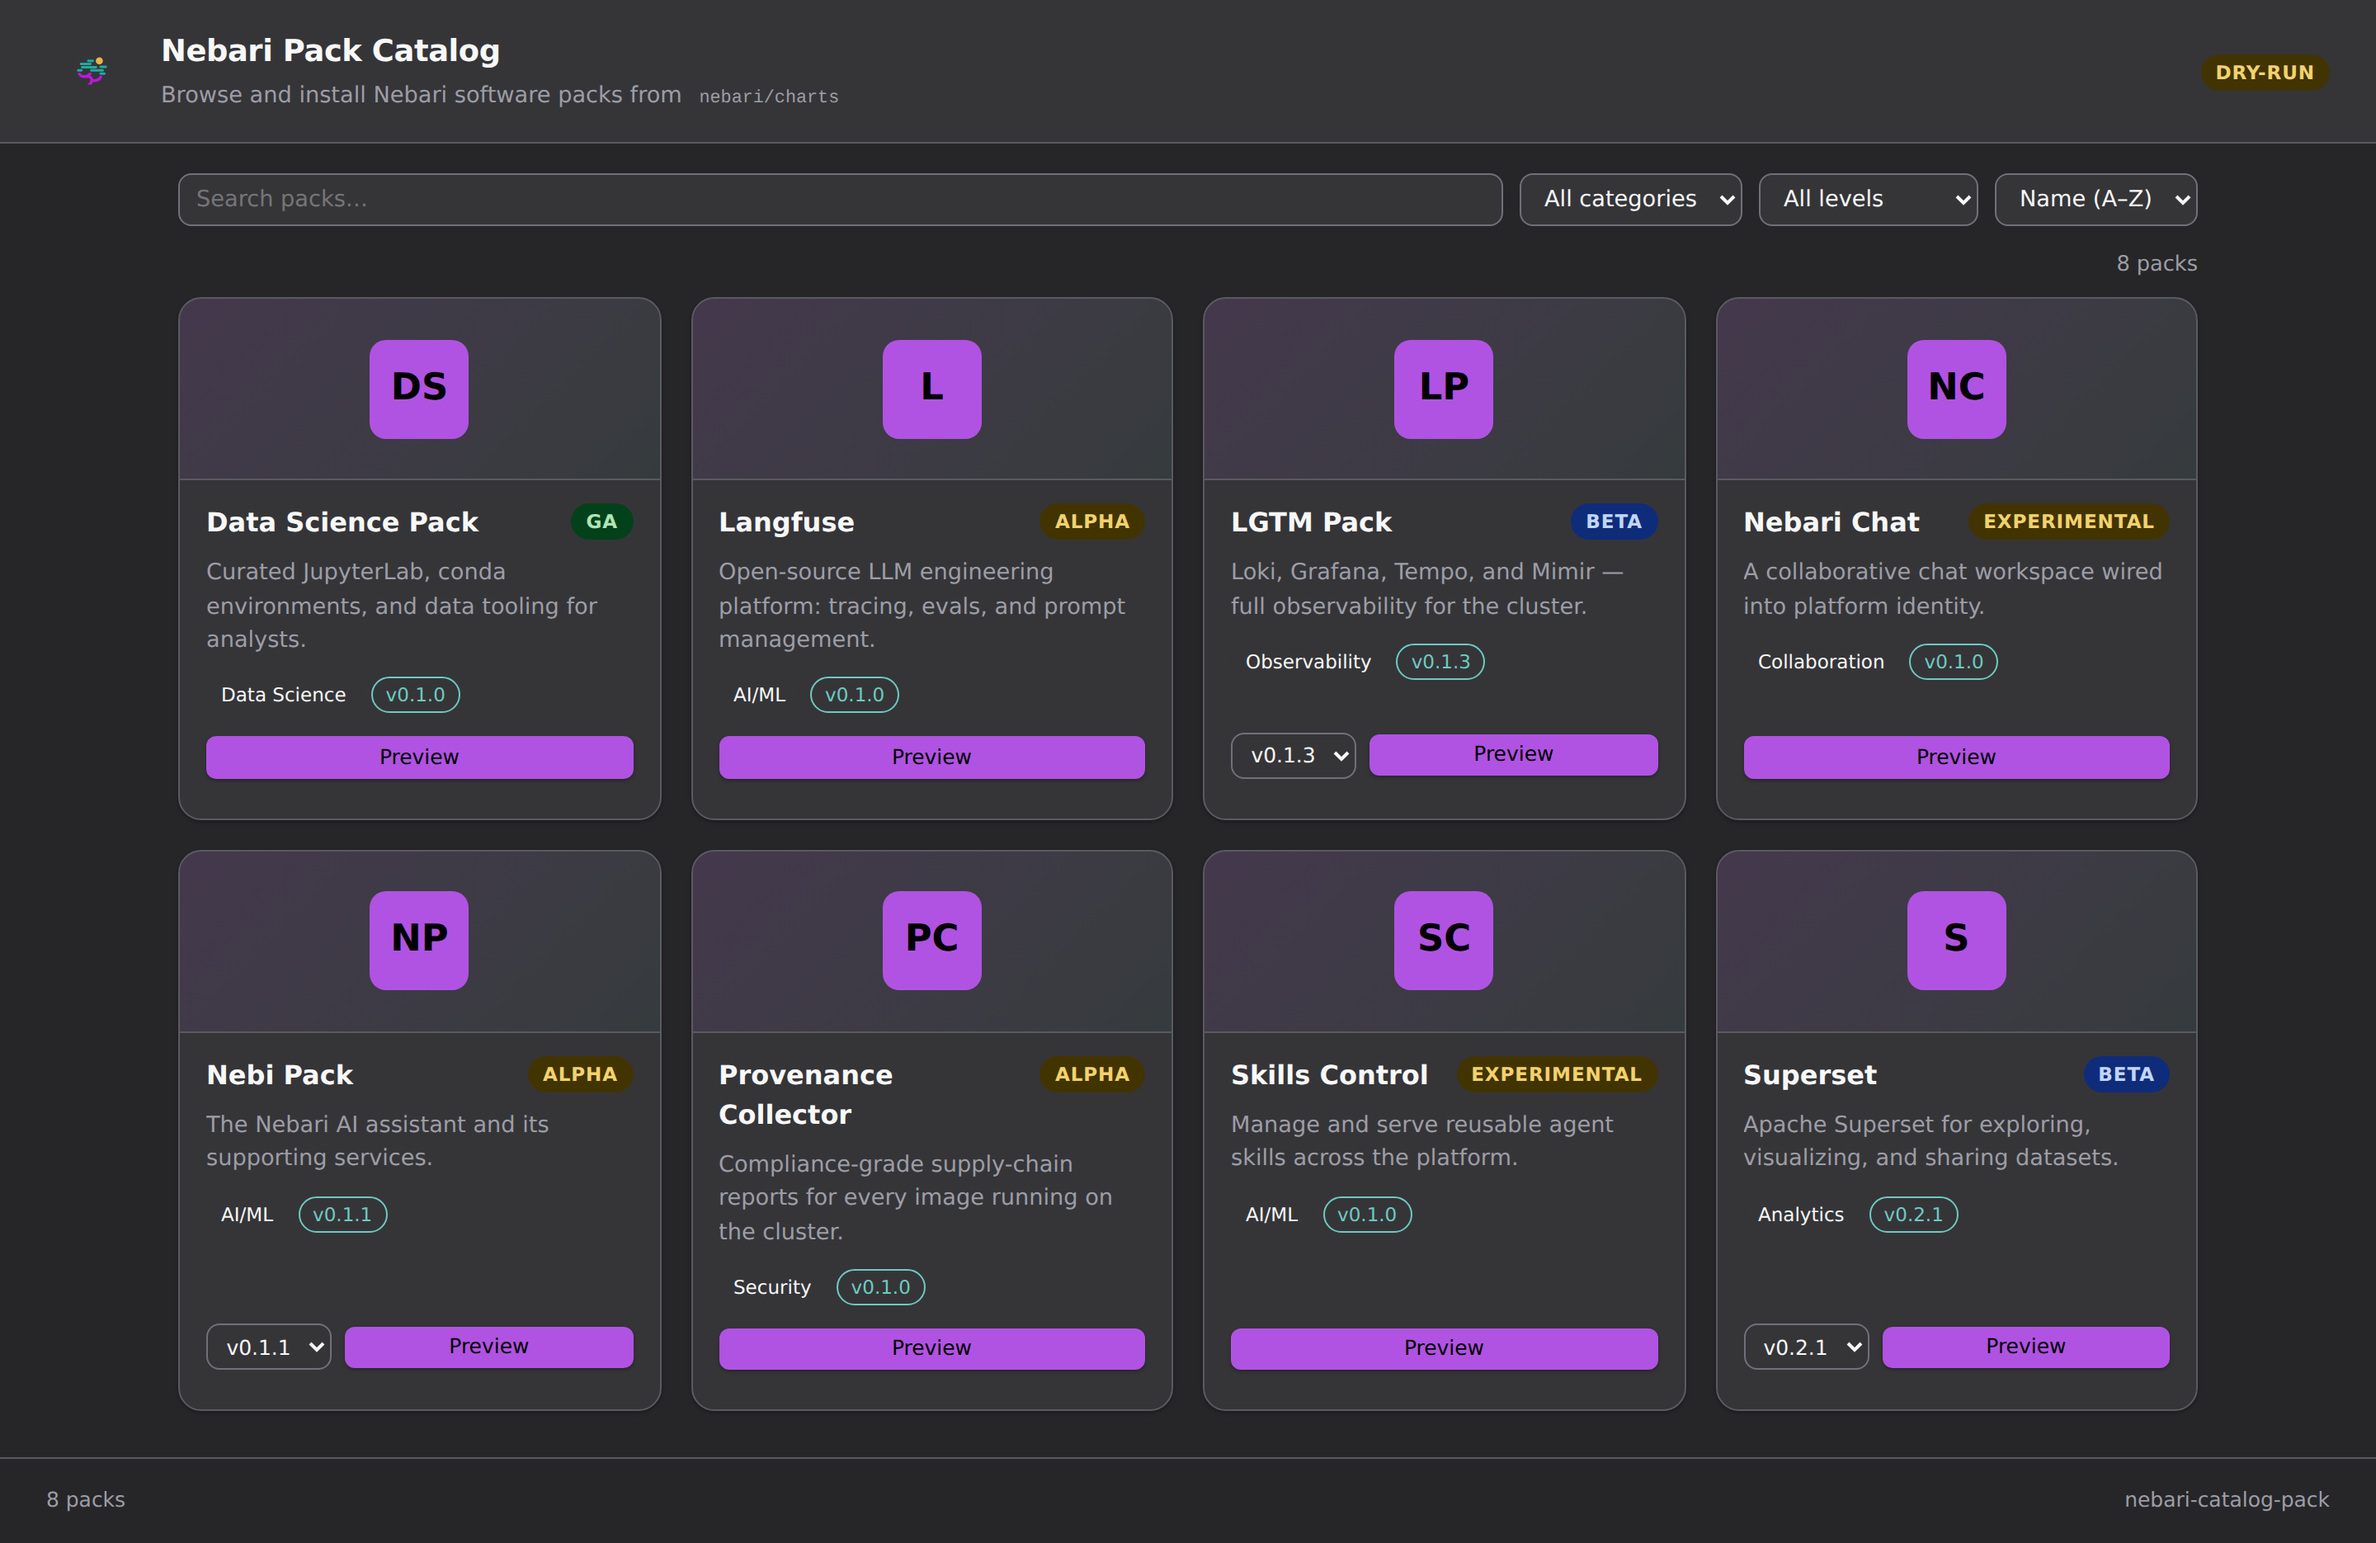
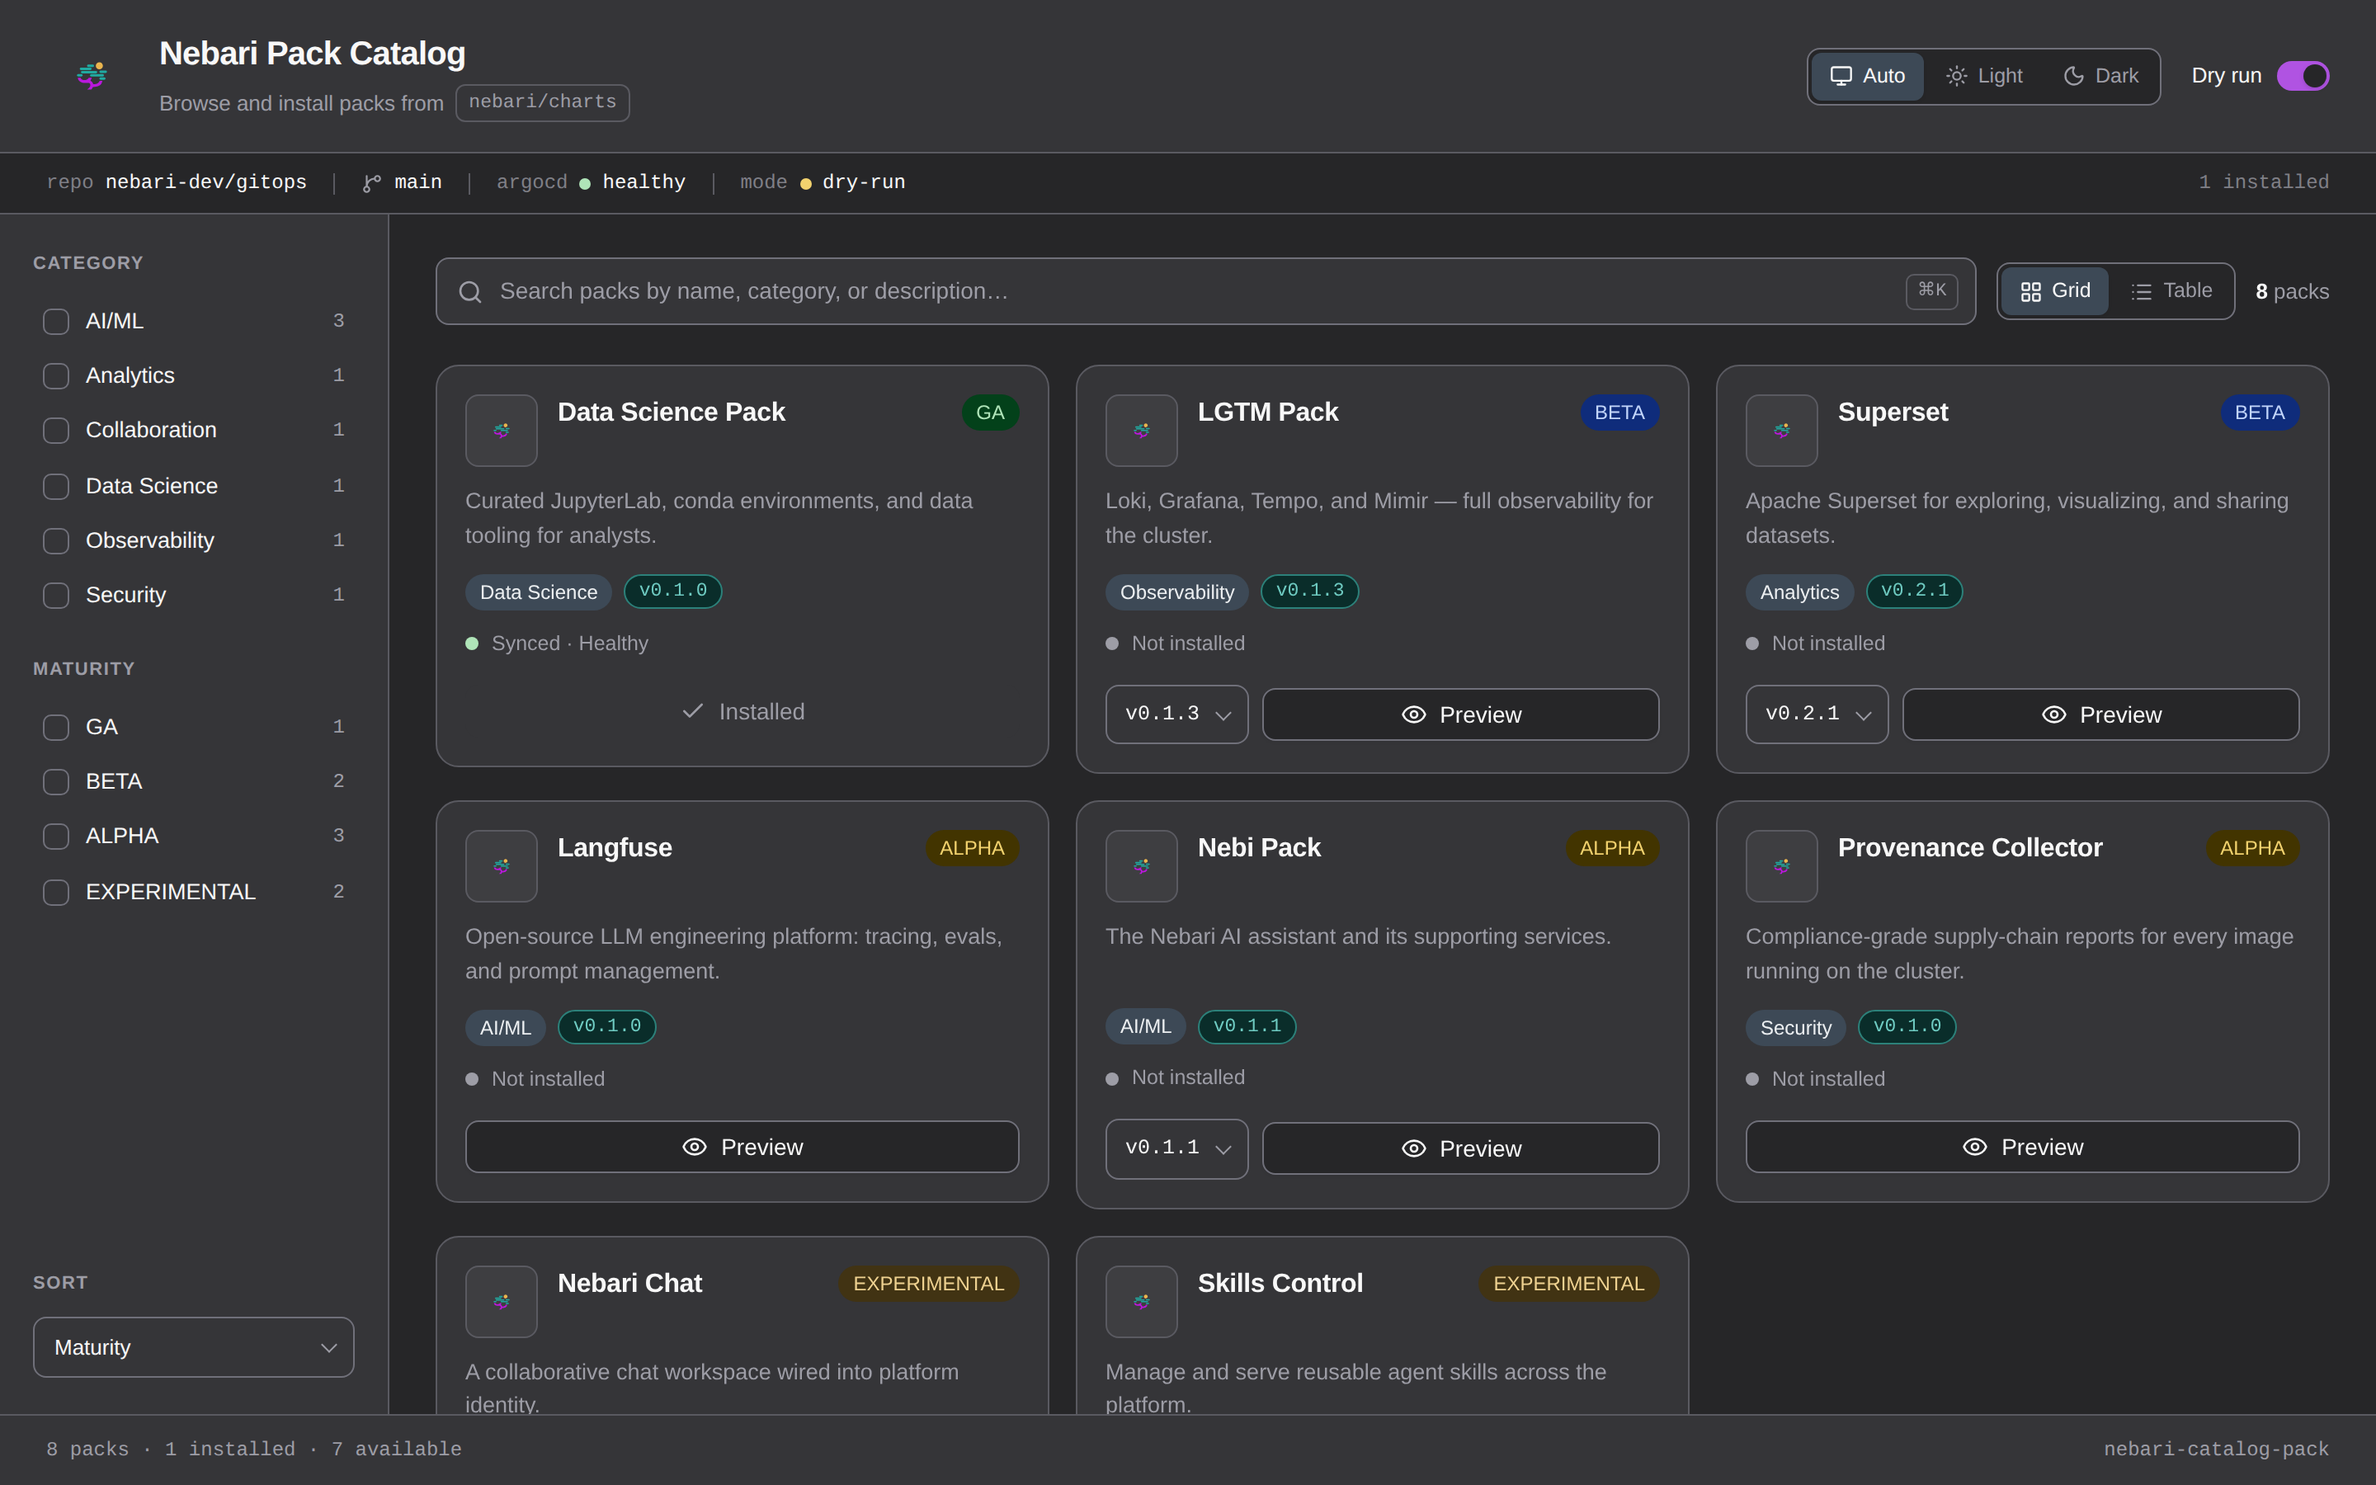
chore: build tooling, e2e harness, and docs for the SPA
- Dockerfile: add a Node build stage that produces web/dist, then embed it in
  the Go build; drop the templ generate step.
- CI (ci.yml): add a frontend job (npm ci + typecheck + build); the Go job
  builds against the committed dist placeholder. Remove templ generate/verify.
- dev/Makefile: web / web-typecheck / build (embeds SPA) targets; drop templ.
- Screenshot harness: regenerate against the SPA (screenshots.spec.js selectors
  updated); screenshots.yml builds the frontend before capture and watches
  web/**. Live integration spec triggers the install via the JSON API and
  reloads to capture cluster state; integration.yml builds the SPA before
  running the runner-side binary.
- go.mod: drop the now-unused templ dependency.
- README + docs/architecture: document the React/TS SPA + JSON API split.
- docs/screenshots: regenerated from the new UI.

diff --git a/test/e2e/live.spec.js b/test/e2e/live.spec.js
@@ -1,16 +1,12 @@
-// Captures the catalog UI against a LIVE deployment and drives a real install.
-// Run via: CATALOG_URL=... TEST_PACK=... npm run screenshots:live
+// Captures the catalog SPA against a LIVE deployment and triggers a real
+// install. Run via: CATALOG_URL=... TEST_PACK=... npm run screenshots:live
 //
 // Used by .github/workflows/integration.yml once the action-nebari-sandbox
-// platform is up and the catalog is running on the runner pointed at the
-// sandbox's real file:// GitOps repo + ArgoCD. The screenshots therefore show
-// the real registry gallery and a genuine install result (committed to git,
-// nudged into ArgoCD) — not the deterministic demo fixtures.
-//
-// The pack to install comes from TEST_PACK; if that card is not present in the
-// live listing we fall back to the first installable card. The chosen pack name
-// is written to installed-pack.txt so the workflow knows which ArgoCD
-// Application to assert on afterward.
+// platform is up and the catalog runs on the runner pointed at the sandbox's
+// real file:// GitOps repo + ArgoCD. The install is triggered through the JSON
+// API (robust, no UI timing), then the page is reloaded so the screenshot shows
+// the resulting cluster state. The chosen pack is written to installed-pack.txt
+// so the workflow knows which ArgoCD Application to assert on.
 const { test, expect } = require("@playwright/test");
 const fs = require("fs");
 const path = require("path");
@@ -23,7 +19,7 @@ test.beforeAll(() => fs.mkdirSync(OUT, { recursive: true }));
 async function openGallery(page) {
   await page.goto("/");
   await expect(page.locator(".card").first()).toBeVisible();
-  await page.waitForTimeout(400);
+  await page.waitForTimeout(500);
 }
 
 test("live gallery (light)", async ({ page }) => {
@@ -38,7 +34,7 @@ test("live gallery (dark)", async ({ page }) => {
   await page.screenshot({ path: path.join(OUT, "gallery-dark.png"), fullPage: true });
 });
 
-test("live install", async ({ page }) => {
+test("live install", async ({ page, request }) => {
   await page.emulateMedia({ colorScheme: "light" });
   await openGallery(page);
 
@@ -49,18 +45,18 @@ test("live install", async ({ page }) => {
   }
   fs.writeFileSync(path.join(__dirname, "installed-pack.txt"), pack ?? "");
 
+  // Trigger a real (non-dry-run) install through the API the SPA uses.
+  const res = await request.post("api/install", {
+    headers: { "Content-Type": "application/json" },
+    data: { pack, version: "", dryRun: false },
+  });
+  expect(res.ok()).toBeTruthy();
+
+  // Reload so the grid reflects the new cluster state, then capture it.
+  await page.reload();
+  await expect(page.locator(".card").first()).toBeVisible();
+  await page.waitForTimeout(800);
   const card = page.locator(`.card[data-pack="${pack}"]`);
-  await card.scrollIntoViewIfNeeded();
-
-  // "Install" in a live (GitOps-configured) deployment; "Preview" in dry-run —
-  // match either so the spec is runnable locally too.
-  await card.getByRole("button", { name: /Install|Preview/ }).click();
-
-  // The real install commits + nudges + polls ArgoCD, so the result can take a
-  // while; the config's expect timeout covers it.
-  await expect(page.locator(`#result-${pack} .result`)).toBeVisible();
-
-  await page.mouse.move(0, 0);
-  await page.waitForTimeout(300);
-  await card.screenshot({ path: path.join(OUT, "install-result.png") });
+  if (await card.count()) await card.scrollIntoViewIfNeeded();
+  await page.screenshot({ path: path.join(OUT, "install-result.png"), fullPage: true });
 });

diff --git a/test/e2e/screenshots.spec.js b/test/e2e/screenshots.spec.js
@@ -1,7 +1,8 @@
-// Captures the catalog UI for the README/docs. Run with: npm run screenshots
+// Captures the catalog SPA for the README/docs. Run with: npm run screenshots
 //
-// The screens are deterministic: the server runs in demo mode (fixed pack list)
-// and dry-run (Preview renders the Application manifest without committing).
+// Deterministic: the Go binary runs in demo mode (fixed pack list) + dry-run,
+// so the grid renders offline data and Preview renders the Application manifest
+// without committing. The theme follows the emulated color scheme.
 const { test, expect } = require("@playwright/test");
 const fs = require("fs");
 const path = require("path");
@@ -13,8 +14,7 @@ test.beforeAll(() => fs.mkdirSync(DOCS, { recursive: true }));
 async function openGallery(page) {
   await page.goto("/");
   await expect(page.locator(".card").first()).toBeVisible();
-  // Let card fonts/gradients settle before capture.
-  await page.waitForTimeout(400);
+  await page.waitForTimeout(500); // let fonts/gradients settle
 }
 
 test("gallery (light)", async ({ page }) => {
@@ -33,20 +33,13 @@ test("install preview", async ({ page }) => {
   await page.emulateMedia({ colorScheme: "light" });
   await openGallery(page);
 
-  const pack = "nebari-lgtm-pack";
+  const pack = "nebari-lgtm-pack"; // present in demo fixtures, not installed
   const card = page.locator(`.card[data-pack="${pack}"]`);
   await card.scrollIntoViewIfNeeded();
-
-  // The action button is overlaid on the card (revealed on hover); click it,
-  // then move the mouse away so the result reads cleanly in the shot.
   await card.getByRole("button", { name: "Preview" }).click();
-  await expect(page.locator(`#result-${pack} .result`)).toBeVisible();
-
-  // Expand the rendered Application manifest.
-  await page.locator(`#result-${pack} details summary`).click();
-  await expect(page.locator(`#result-${pack} pre.manifest`)).toBeVisible();
-  await page.mouse.move(0, 0);
+  await expect(card.locator(".result")).toBeVisible();
+  await card.locator(".manifest summary").click();
+  await expect(card.locator(".manifest pre")).toBeVisible();
   await page.waitForTimeout(300);
-
   await card.screenshot({ path: path.join(DOCS, "install-preview.png") });
 });

diff --git a/web/src/components/GridCard.tsx b/web/src/components/GridCard.tsx
@@ -7,7 +7,7 @@ import { ResultBlock } from "@/components/ResultBlock";
 export function GridCard(props: PackProps) {
   const { pack, installed, result } = props;
   return (
-    <div className="card">
+    <div className="card" data-pack={pack.id}>
       <div className="ctop">
         <span className="tile">
           {pack.icon ? <img src={pack.icon} alt="" loading="lazy" /> : <NebariMark />}

diff --git a/web/src/components/TableRow.tsx b/web/src/components/TableRow.tsx
@@ -8,7 +8,7 @@ export function TableRow(props: PackProps) {
   const { pack, installed, result } = props;
   return (
     <>
-      <tr className="row">
+      <tr className="row" data-pack={pack.id}>
         <td>
           <div className="pk">
             <span className="tile">

diff --git a/README.md b/README.md
@@ -162,16 +162,21 @@ into the GitOps repo. The container runs non-root with a read-only root filesyst
 ## Development
 
 ```bash
-make -f dev/Makefile generate     # regenerate templ components
-make -f dev/Makefile test         # go test ./...
+make -f dev/Makefile web           # build the React SPA into web/dist
+make -f dev/Makefile build         # build the binary (embeds the SPA) into ./bin
+make -f dev/Makefile test          # go test ./...
 make -f dev/Makefile vet
-make -f dev/Makefile image        # docker build
+make -f dev/Makefile web-typecheck # tsc --noEmit
+make -f dev/Makefile image         # docker build (builds the SPA in a stage)
 make -f dev/Makefile helm-lint
 cd test/e2e && npm install && npm run screenshots   # regenerate UI screenshots
 ```
 
-The UI is server-rendered with [templ](https://templ.guide) and [htmx](https://htmx.org) (both vendored — no
-CDN, no node toolchain at runtime). Generated `*_templ.go` files are committed; CI verifies they are up to date.
+The frontend is a **React + TypeScript single-page app** ([`web/`](web/)) built with Vite + Tailwind v4,
+using components from the [Nebari design system](https://github.com/nebari-dev/nebari-design) shadcn registry
+(`@nebari`). The Go server exposes a JSON API (`/api/*`) and serves the built SPA embedded in the binary — no
+runtime external requests. A committed placeholder keeps `go build` working before the frontend is built; the
+real build happens in CI, the Docker image stage, and `make web`.
 
 ### Integration tests
 
@@ -180,8 +185,9 @@ CDN, no node toolchain at runtime). Generated `*_templ.go` files are committed; 
 the pack against a real cluster in two layers: **(1) deploy-and-Healthy** — builds the image and deploys the chart
 onto the platform via the `add-software-pack` sub-action, asserting `Application/nebari-catalog-pack` reaches
 `Healthy`; **(2) the real install path** — runs the catalog against the sandbox's live `file://` GitOps repo +
-ArgoCD, drives a genuine install through the UI with the Playwright harness in [`test/e2e/`](test/e2e/)
-(`npm run screenshots:live`), and asserts the catalog committed an `Application` that ArgoCD then created. The live
+ArgoCD, triggers a genuine install through the API the SPA uses and captures live screenshots with the Playwright
+harness in [`test/e2e/`](test/e2e/) (`npm run screenshots:live`), then asserts the catalog committed an
+`Application` that ArgoCD then created. The live
 screenshots are captured under [`docs/screenshots/live/`](docs/screenshots/live/) (committed on `main` runs;
 artifact-only on PRs). It runs on PRs touching the payload, on `main`, and on demand — heavier than `ci.yml`,
 which stays cluster-free.
@@ -195,7 +201,8 @@ internal/registry      Quay/OCI discovery, metadata enrichment, demo fixtures
 internal/gitops        ArgoCD Application builder + go-git committer
 internal/argocd        dynamic-client refresh nudge + Application status poll
 internal/installer     orchestration: resolve -> render -> commit -> nudge -> wait
-internal/server        HTTP routes + templ/htmx UI (internal/server/ui)
+internal/server        JSON API (/api/*) + serves the embedded SPA
+web/                   React + TS single-page app (Vite, Tailwind v4, @nebari)
 chart/                 Helm chart packaging the service as a pack
 examples/              ArgoCD Application + values for operator/standalone installs
 test/e2e/              Playwright screenshot harness

diff --git a/docs/architecture.md b/docs/architecture.md
@@ -19,10 +19,15 @@ internal/registry      Quay/OCI discovery + best-effort pack-metadata enrichment
 internal/gitops        ArgoCD Application builder + go-git committer
 internal/argocd        dynamic-client refresh nudge + Application status poll
 internal/installer     orchestration: resolve -> render -> commit -> nudge -> wait
-internal/server        HTTP routes + templ/htmx UI
-internal/server/ui     templ components (gallery, card, install result)
+internal/server        JSON API (/api/packs, /api/install, /api/gitops) + serves the embedded SPA
+web/                   React + TypeScript single-page app (Vite, Tailwind v4, @nebari registry components)
 chart/                 the Helm chart that packages all of the above as a pack
 ```
+
+The frontend is a React/TS SPA built with Vite and the Nebari design system's
+shadcn registry (`@nebari`). It is built to `web/dist` and embedded into the Go
+binary (the `web` package), so the server makes no runtime external requests.
+The Go server is a JSON API; it does not render HTML.
 
 ## Discovery
 
